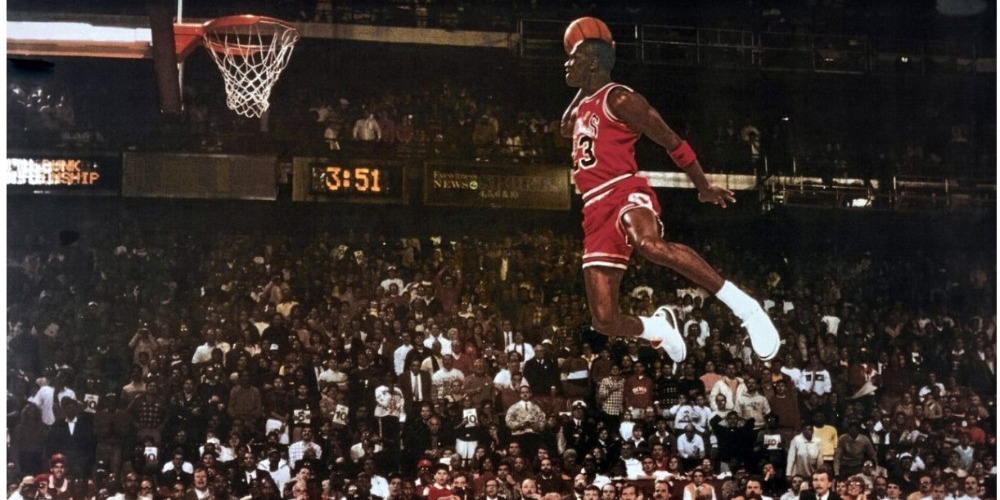
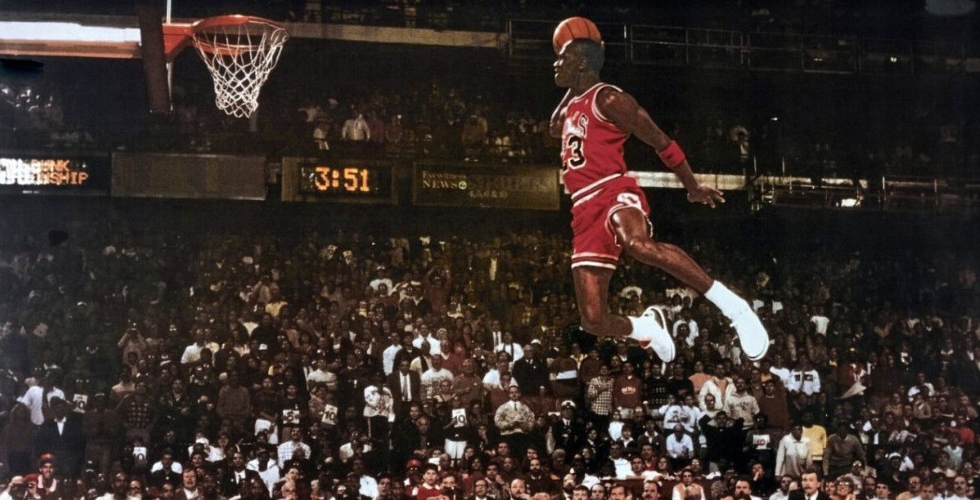
updated hero section and quote

diff --git a/assets/css/style.css b/assets/css/style.css
@@ -5,7 +5,7 @@
 }
 
 body {
-    background-color: #eeeeee;
+    background-color: #ffffff;
     font-family: Helvetica, Arial, sans-serif;
 }
 
@@ -50,6 +50,34 @@ header h1 {
     display: inline;
 }
 
+/* hero style start */
+section {
+    padding: 60px;
+}
+
+.hero {
+    background-image: url("../images/mjdunk.jpg");
+    height: 650px;
+    background-size: contain;
+    background-position: right;
+    background-repeat: no-repeat;
+}
+/* hero style end */
+
+.hero-quote {
+    background-color: lightgray;
+    padding: 30px;
+    width: 700px;
+    color: #000000;
+    position: absolute;
+    bottom: 75px;
+    left: 30px;
+    font-size: 26px;
+    font-weight: bold;
+}
+  
+
+/* apply styles to <footer> */
 footer {
     background: #000000;
     width: 100%;
@@ -59,12 +87,6 @@ footer {
 footer h4 {
     display: inline;
     color: #eeeeee;
-    font-size: 28px;
+    font-size: 16px;
     margin: 0;
-}
-
-footer p {
-    float: right;
-    line-height: 1.5;
-    color: #eeeeee
 }
